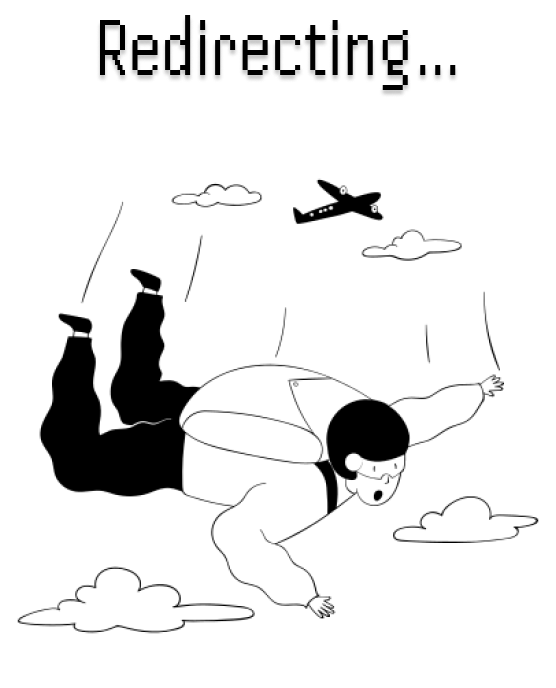
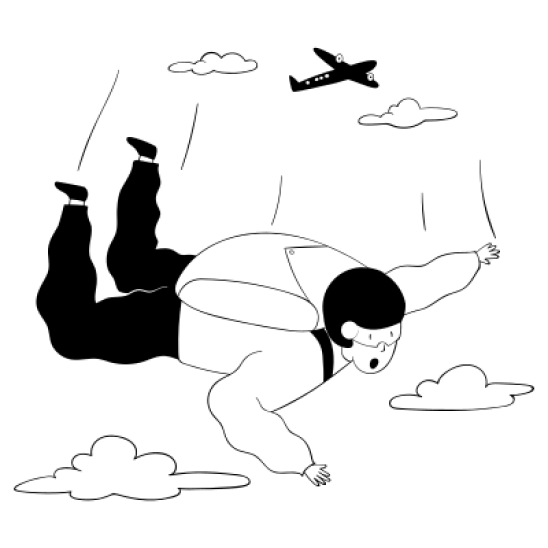
Redirect page show page title

diff --git a/src/views/UrlRedirect.vue b/src/views/UrlRedirect.vue
@@ -24,13 +24,25 @@
           link.
         </p>
       </div>
-      <img
-        v-else
-        class="mt-5"
-        style="max-width: 350px"
-        src="../assets/images/redirecting.png"
-        alt=""
-      />
+      <div v-else class="d-flex flex-column mt-5">
+        <div class="message d-flex align-items-center" v-if="loading">
+          <div class="spinner-border me-3" role="status">
+            <span class="visually-hidden">Loading...</span>
+          </div>
+          Finding your destination...
+        </div>
+        <div class="message" v-else>
+          Flying you to
+          <span span class="destination-title">{{ url.title }}</span>
+          ...
+        </div>
+        <img
+          class="mt-5"
+          style="max-width: 350px"
+          src="../assets/images/redirecting.png"
+          alt=""
+        />
+      </div>
     </div>
   </div>
 </template>
@@ -46,10 +58,13 @@ export default {
   data() {
     return {
       error: false,
+      loading: true,
+      url: {},
     };
   },
   methods: {
-    getUrlThenRedirect: function () {
+    getUrlThenRedirect: async function () {
+      this.loading = true;
       axios({
         method: "GET",
         url: "url",
@@ -57,10 +72,17 @@ export default {
       }).then(
         (result) => {
           console.log(result);
-          window.location.href = this.addhttp(result.data.url.destination_url);
+          this.url = result.data.url;
+          this.loading = false;
+          setTimeout(() => {
+            window.location.href = this.addhttp(
+              result.data.url.destination_url
+            );
+          }, 2000);
         },
         (error) => {
           console.log(error);
+          this.loading = false;
           this.error = true;
         }
       );
@@ -87,6 +109,16 @@ export default {
     top: 0;
     bottom: 0;
     background: linear-gradient(142.99deg, #f5f5f3 21.49%, #faf3ec 91.63%);
+  }
+}
+
+.message {
+  font-weight: 600;
+  font-size: 25px;
+  color: #000000;
+
+  .destination-title {
+    font-weight: bold;
   }
 }
 

diff --git a/src/views/UrlDetail.vue b/src/views/UrlDetail.vue
@@ -48,9 +48,9 @@
             <div class="d-flex flex-column">
               <div class="destination-title">{{ urlData.title }}</div>
               <a
-                :href="this.addhttp(urlData.destination_url)"
+                :href="this.addhttp('bub.junyong.me/' + urlData.alias)"
                 class="destination-url"
-                >{{ urlData.destination_url }}</a
+                >{{ "bub.junyong.me/" + urlData.alias }}</a
               >
             </div>
           </div>
